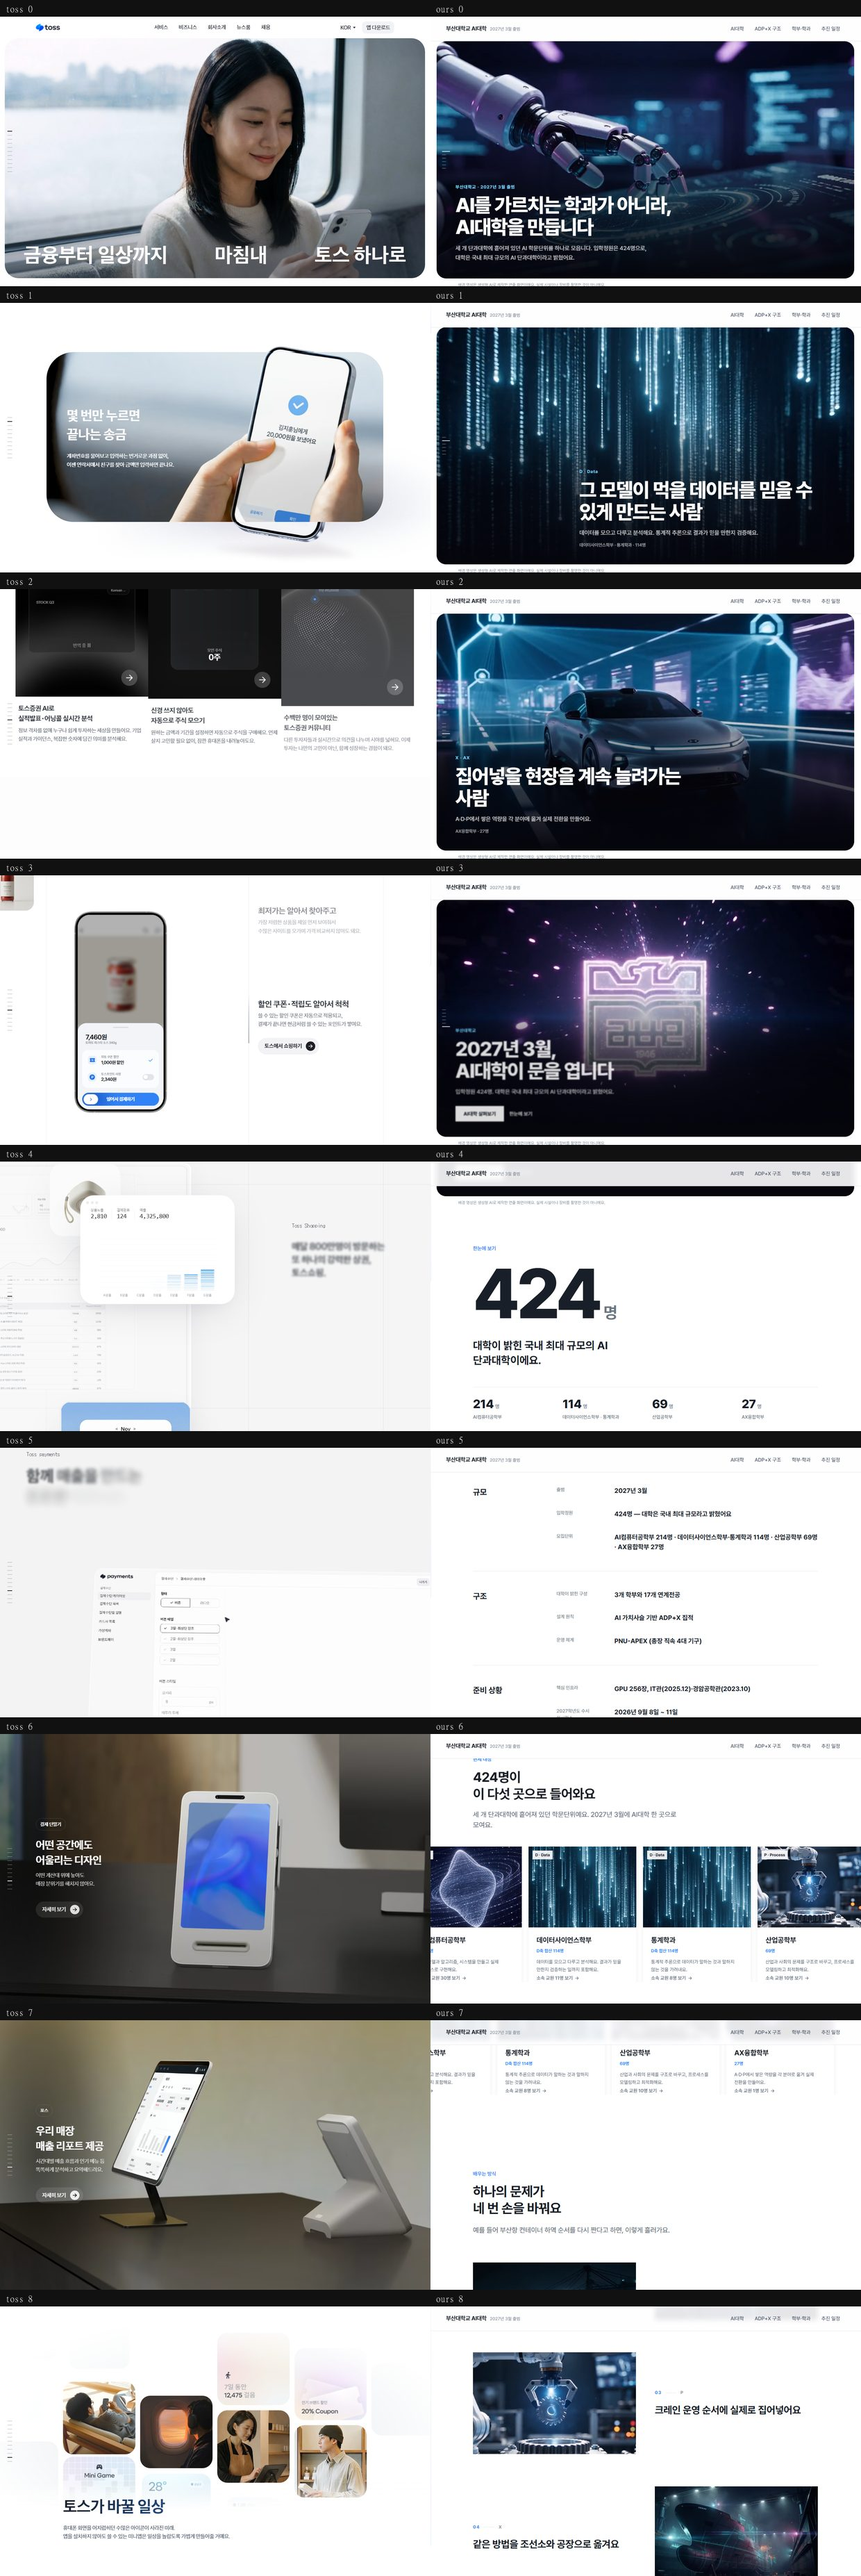
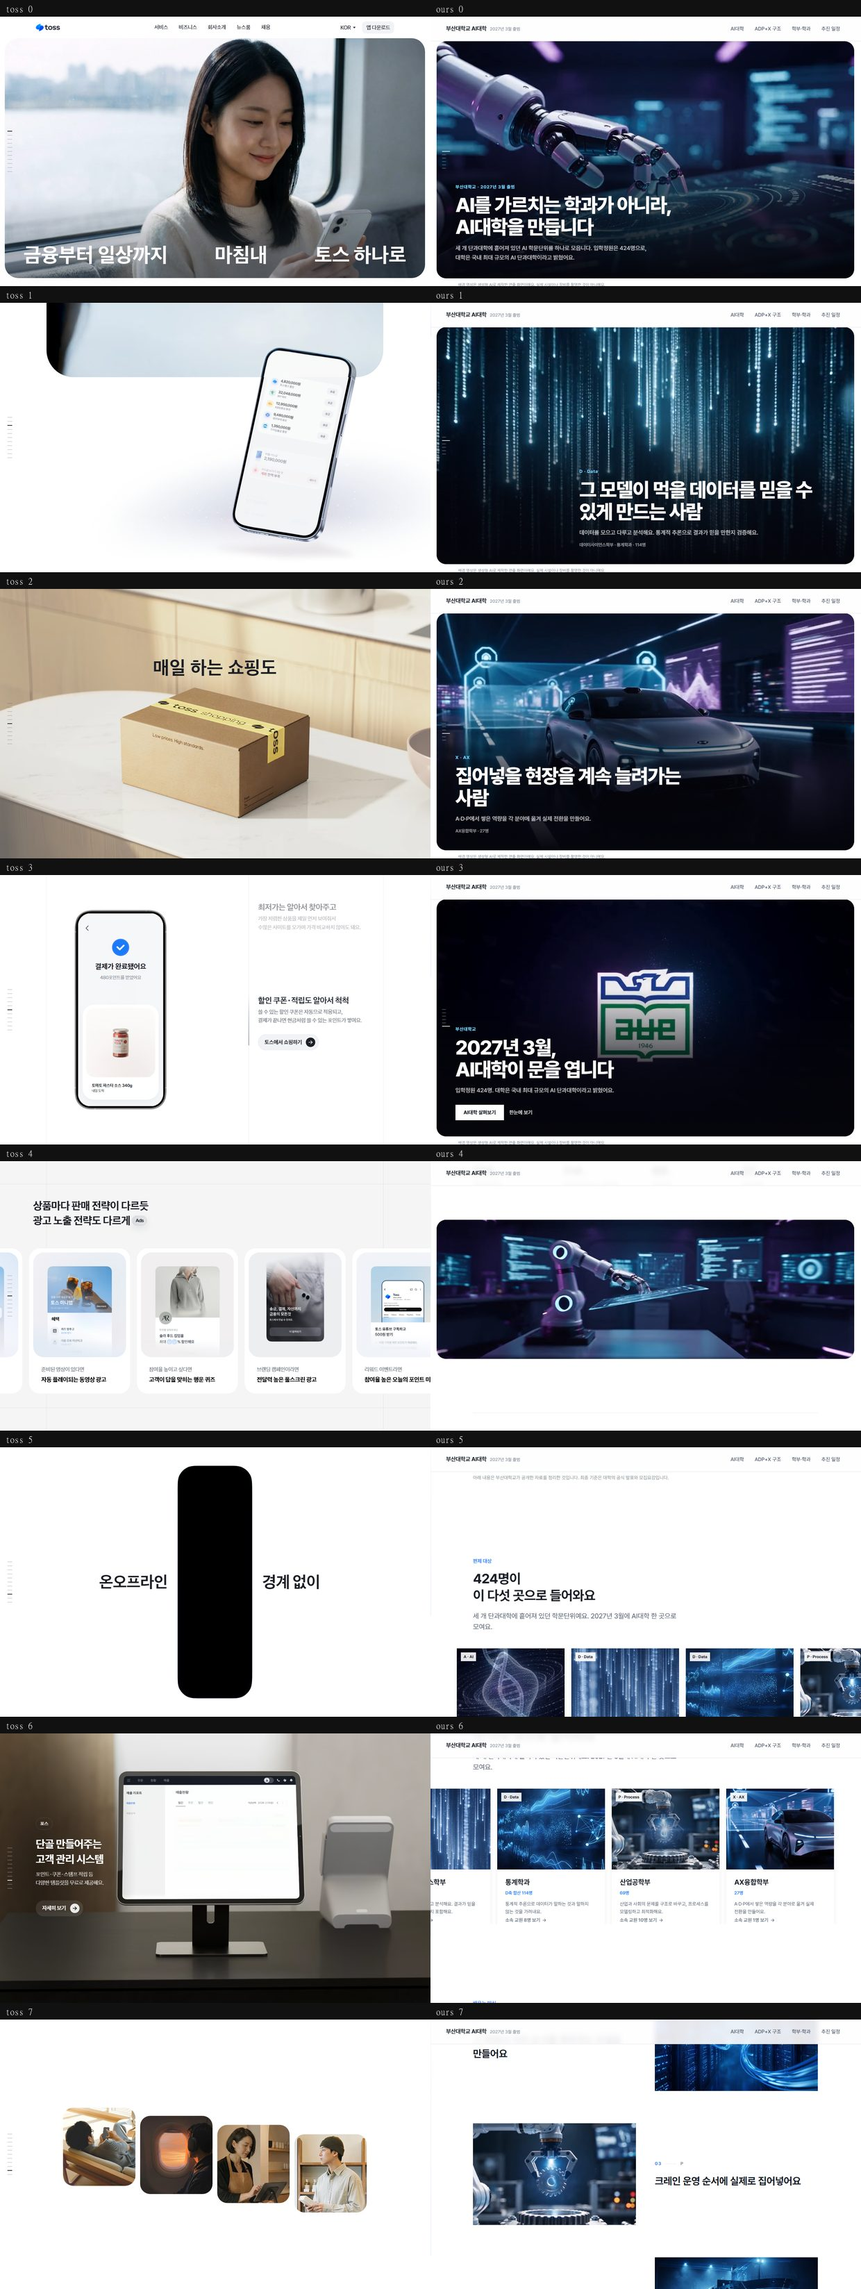
빽빽한 두 구간 사이에 문장 하나만 놓인 화면을 넣는다
배포본 8단계 비교에서 toss 행 5 는 흰 화면 한가운데에 검은 형태 하나가
서 있고 그 좌우로 「온오프라인」「경계 없이」가 갈라져 있다. 다른 요소가
하나도 없다. 앞은 광고 카드 레일, 뒤는 제품 사진 — 둘 다 빽빽하고 이
화면이 그 사이에서 눈을 쉬게 한다.

우리에게는 그렇게 조용한 화면이 없었다. 모든 절이 눈썹 문구 + 제목 +
본문 + 보조 정보 네 겹을 한꺼번에 편다.

자리는 표(규모·구조·준비 상황)와 학부 카드 줄 사이다. toss 가 그 화면을
레일과 제품 사진 사이에 둔 것과 같은 자리다.

문장은 「AI는 한 학과가 감당할 수 있는 크기를 넘었어요」로 골랐다. 홈은
AI대학이 무엇인지, 몇 명인지, 어느 학부가 오는지는 말하는데 **왜 만드는지는
한 번도 말하지 않았다.** 그 답이 /ai-college 안쪽에만 있었다.

toss 는 문장을 좌우로 갈라 사이에 오브젝트를 세우지만 우리는 한 덩이로 뒀다.
「온오프라인」「경계 없이」는 끊어도 각각 뜻이 서는 짧은 구인데, 우리 문장을
자르면 읽는 순서가 흔들린다.

처음에 88svh + 80px 로 잡았더니 앞 절의 아래 여백과 겹쳐 400px 넘는 빈
화면이 생겼다. 74svh + 64px 로 줄이고 표 절의 아래 여백을 걷었다.

Claude-Session: https://claude.ai/code/session_01DneFDYxx25DjwNJdj8uLH7

diff --git a/src/scenes/BreatherScene.jsx b/src/scenes/BreatherScene.jsx
@@ -1,0 +1,45 @@
+import { WHY } from '../data/content'
+
+/*
+ * ── toss 출처 기록 ────────────────────────────────────────────────────────
+ *
+ * [숨 쉬는 화면] 밀도 높은 구간 사이에 문장 하나만 놓인 화면을 통으로 넣는다
+ *   toss 씬        : 「온오프라인 경계 없이」
+ *   캡처 파일       : assets/gap/home.jpg 행 5 (toss 열, 8단계 캡처)
+ *   원본에서 본 것  : 흰 화면 한가운데에 검은 형태 하나가 서 있고 그 좌우로
+ *                    문장이 두 토막으로 갈라져 있다. 다른 요소가 하나도 없다.
+ *                    앞은 광고 카드 레일, 뒤는 제품 사진 — 둘 다 빽빽하다.
+ *                    이 화면이 그 사이에서 눈을 쉬게 한다.
+ *   그대로 가져온 것: 화면 하나를 문장 하나에 통째로 준다. 눈썹 문구도, 버튼도,
+ *                    보조 설명도 두지 않는다.
+ *   바꾼 것과 이유  : toss 는 문장을 좌우로 갈라 그 사이에 오브젝트를 세우지만
+ *                    우리는 한 덩이로 둔다. 한국어 문장을 둘로 자르면 읽는
+ *                    순서가 흔들린다. toss 문장은 「온오프라인」「경계 없이」로
+ *                    끊어도 각각 뜻이 서는 짧은 구다.
+ *   근거 강도       : 직접관찰(프레임)
+ *
+ * ── 왜 여기인가 ──────────────────────────────────────────────────────────
+ * 앞은 규모·구조·준비 상황 세 묶음 표, 뒤는 학부 카드 다섯 장이다. 둘 다
+ * 빽빽하다. toss 가 「온오프라인 경계 없이」를 광고 레일과 제품 사진 사이에
+ * 둔 것과 같은 자리다.
+ *
+ * 내용을 이 문장으로 고른 이유는 따로 있다. 홈은 AI대학이 무엇인지, 몇 명인지,
+ * 어느 학부가 오는지는 말하는데 **왜 만드는지는 한 번도 말하지 않았다.**
+ * 그 답이 /ai-college 안쪽에만 있었다.
+ * ────────────────────────────────────────────────────────────────────────
+ */
+
+export default function BreatherScene() {
+  return (
+    <section className="bg-canvas" aria-labelledby="why-line">
+      <div className="edge flex min-h-[74svh] items-center py-16">
+        <h2
+          id="why-line"
+          className="max-w-[16ch] whitespace-pre-line text-[clamp(2rem,5vw,4rem)] font-extrabold leading-[1.18] tracking-[-0.035em] text-ink"
+        >
+          {WHY.title}
+        </h2>
+      </div>
+    </section>
+  )
+}

diff --git a/src/pages/Home.jsx b/src/pages/Home.jsx
@@ -1,6 +1,7 @@
 import { useEffect } from 'react'
 import HeroScene from '../scenes/HeroScene'
 import FactSheetScene from '../scenes/FactSheetScene'
+import BreatherScene from '../scenes/BreatherScene'
 import SchoolRailScene from '../scenes/SchoolRailScene'
 import ImpactScene from '../scenes/ImpactScene'
 
@@ -15,6 +16,8 @@ export default function Home() {
       <HeroScene />
 
       <FactSheetScene />
+
+      <BreatherScene />
 
       <SchoolRailScene />
 

diff --git a/src/scenes/FactSheetScene.jsx b/src/scenes/FactSheetScene.jsx
@@ -121,7 +121,7 @@ export default function FactSheetScene() {
       </div>
 
       {/* 표 — 세 묶음, 전부 또렷하게 */}
-      <section className="band bg-canvas">
+      <section className="bg-canvas pb-8 pt-20 md:pt-28 lg:pt-40">
         <div className="edge">
           {GROUPS.map((group) => (
             <div
